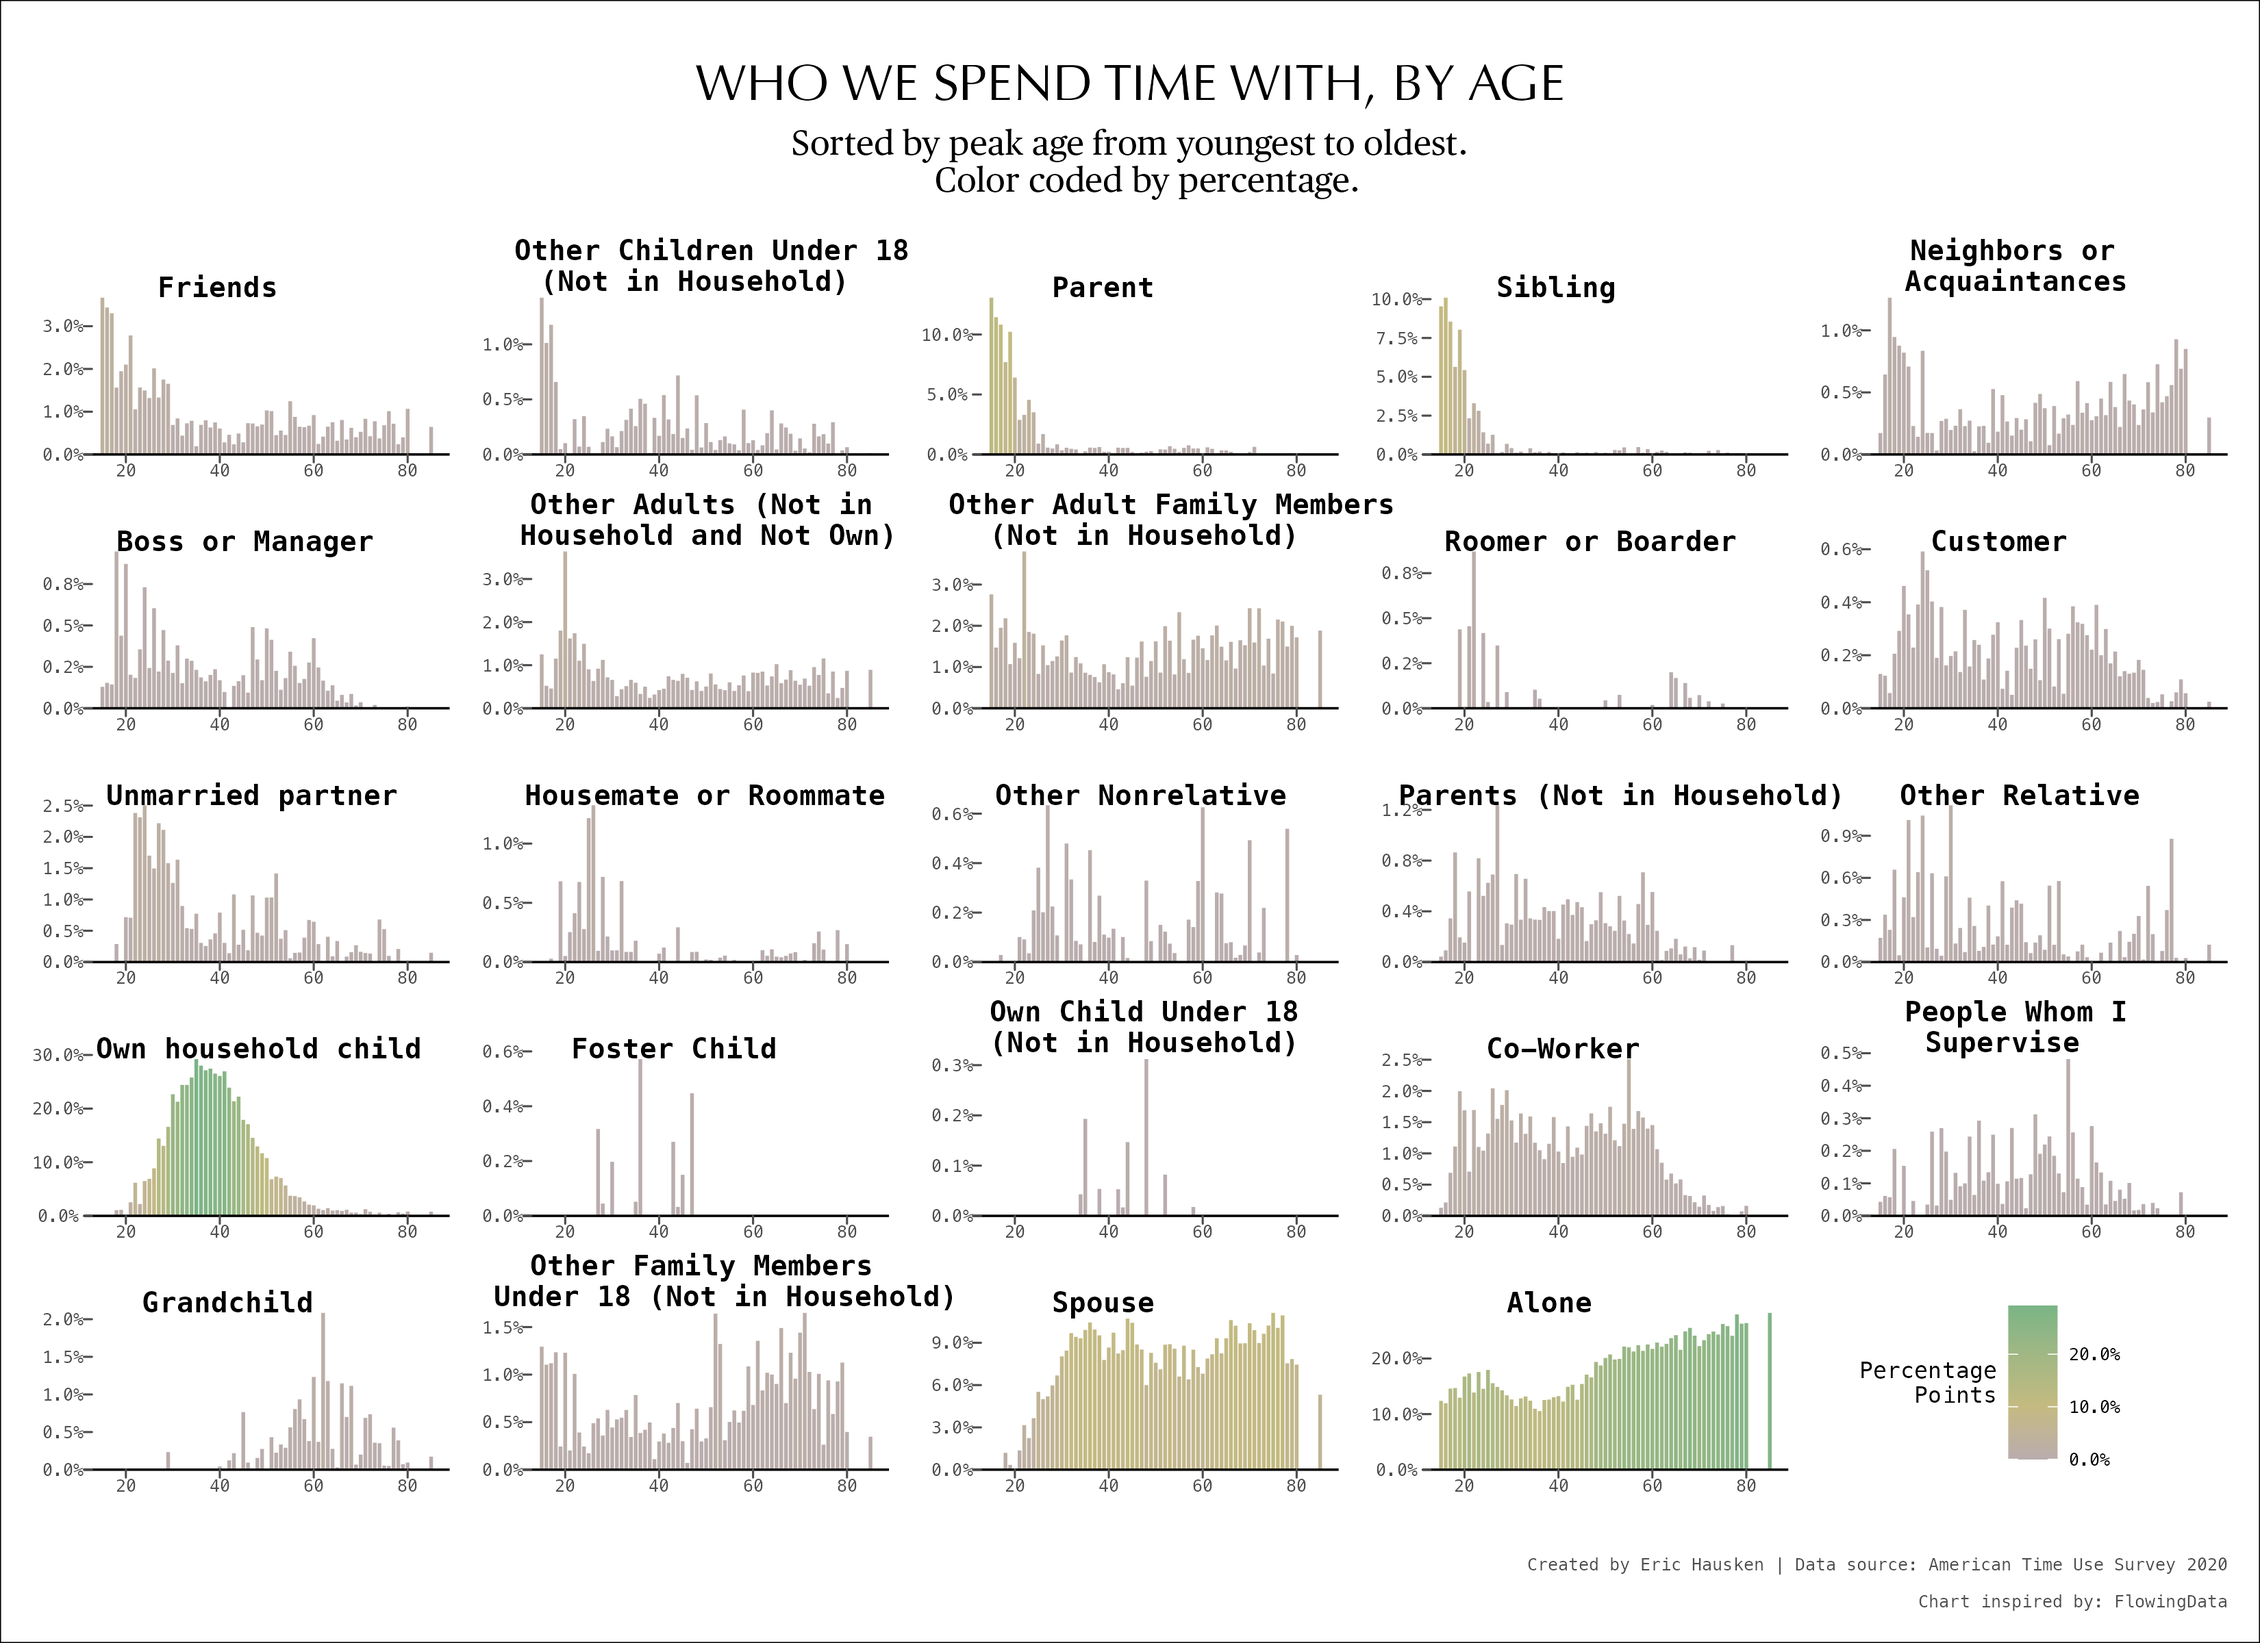
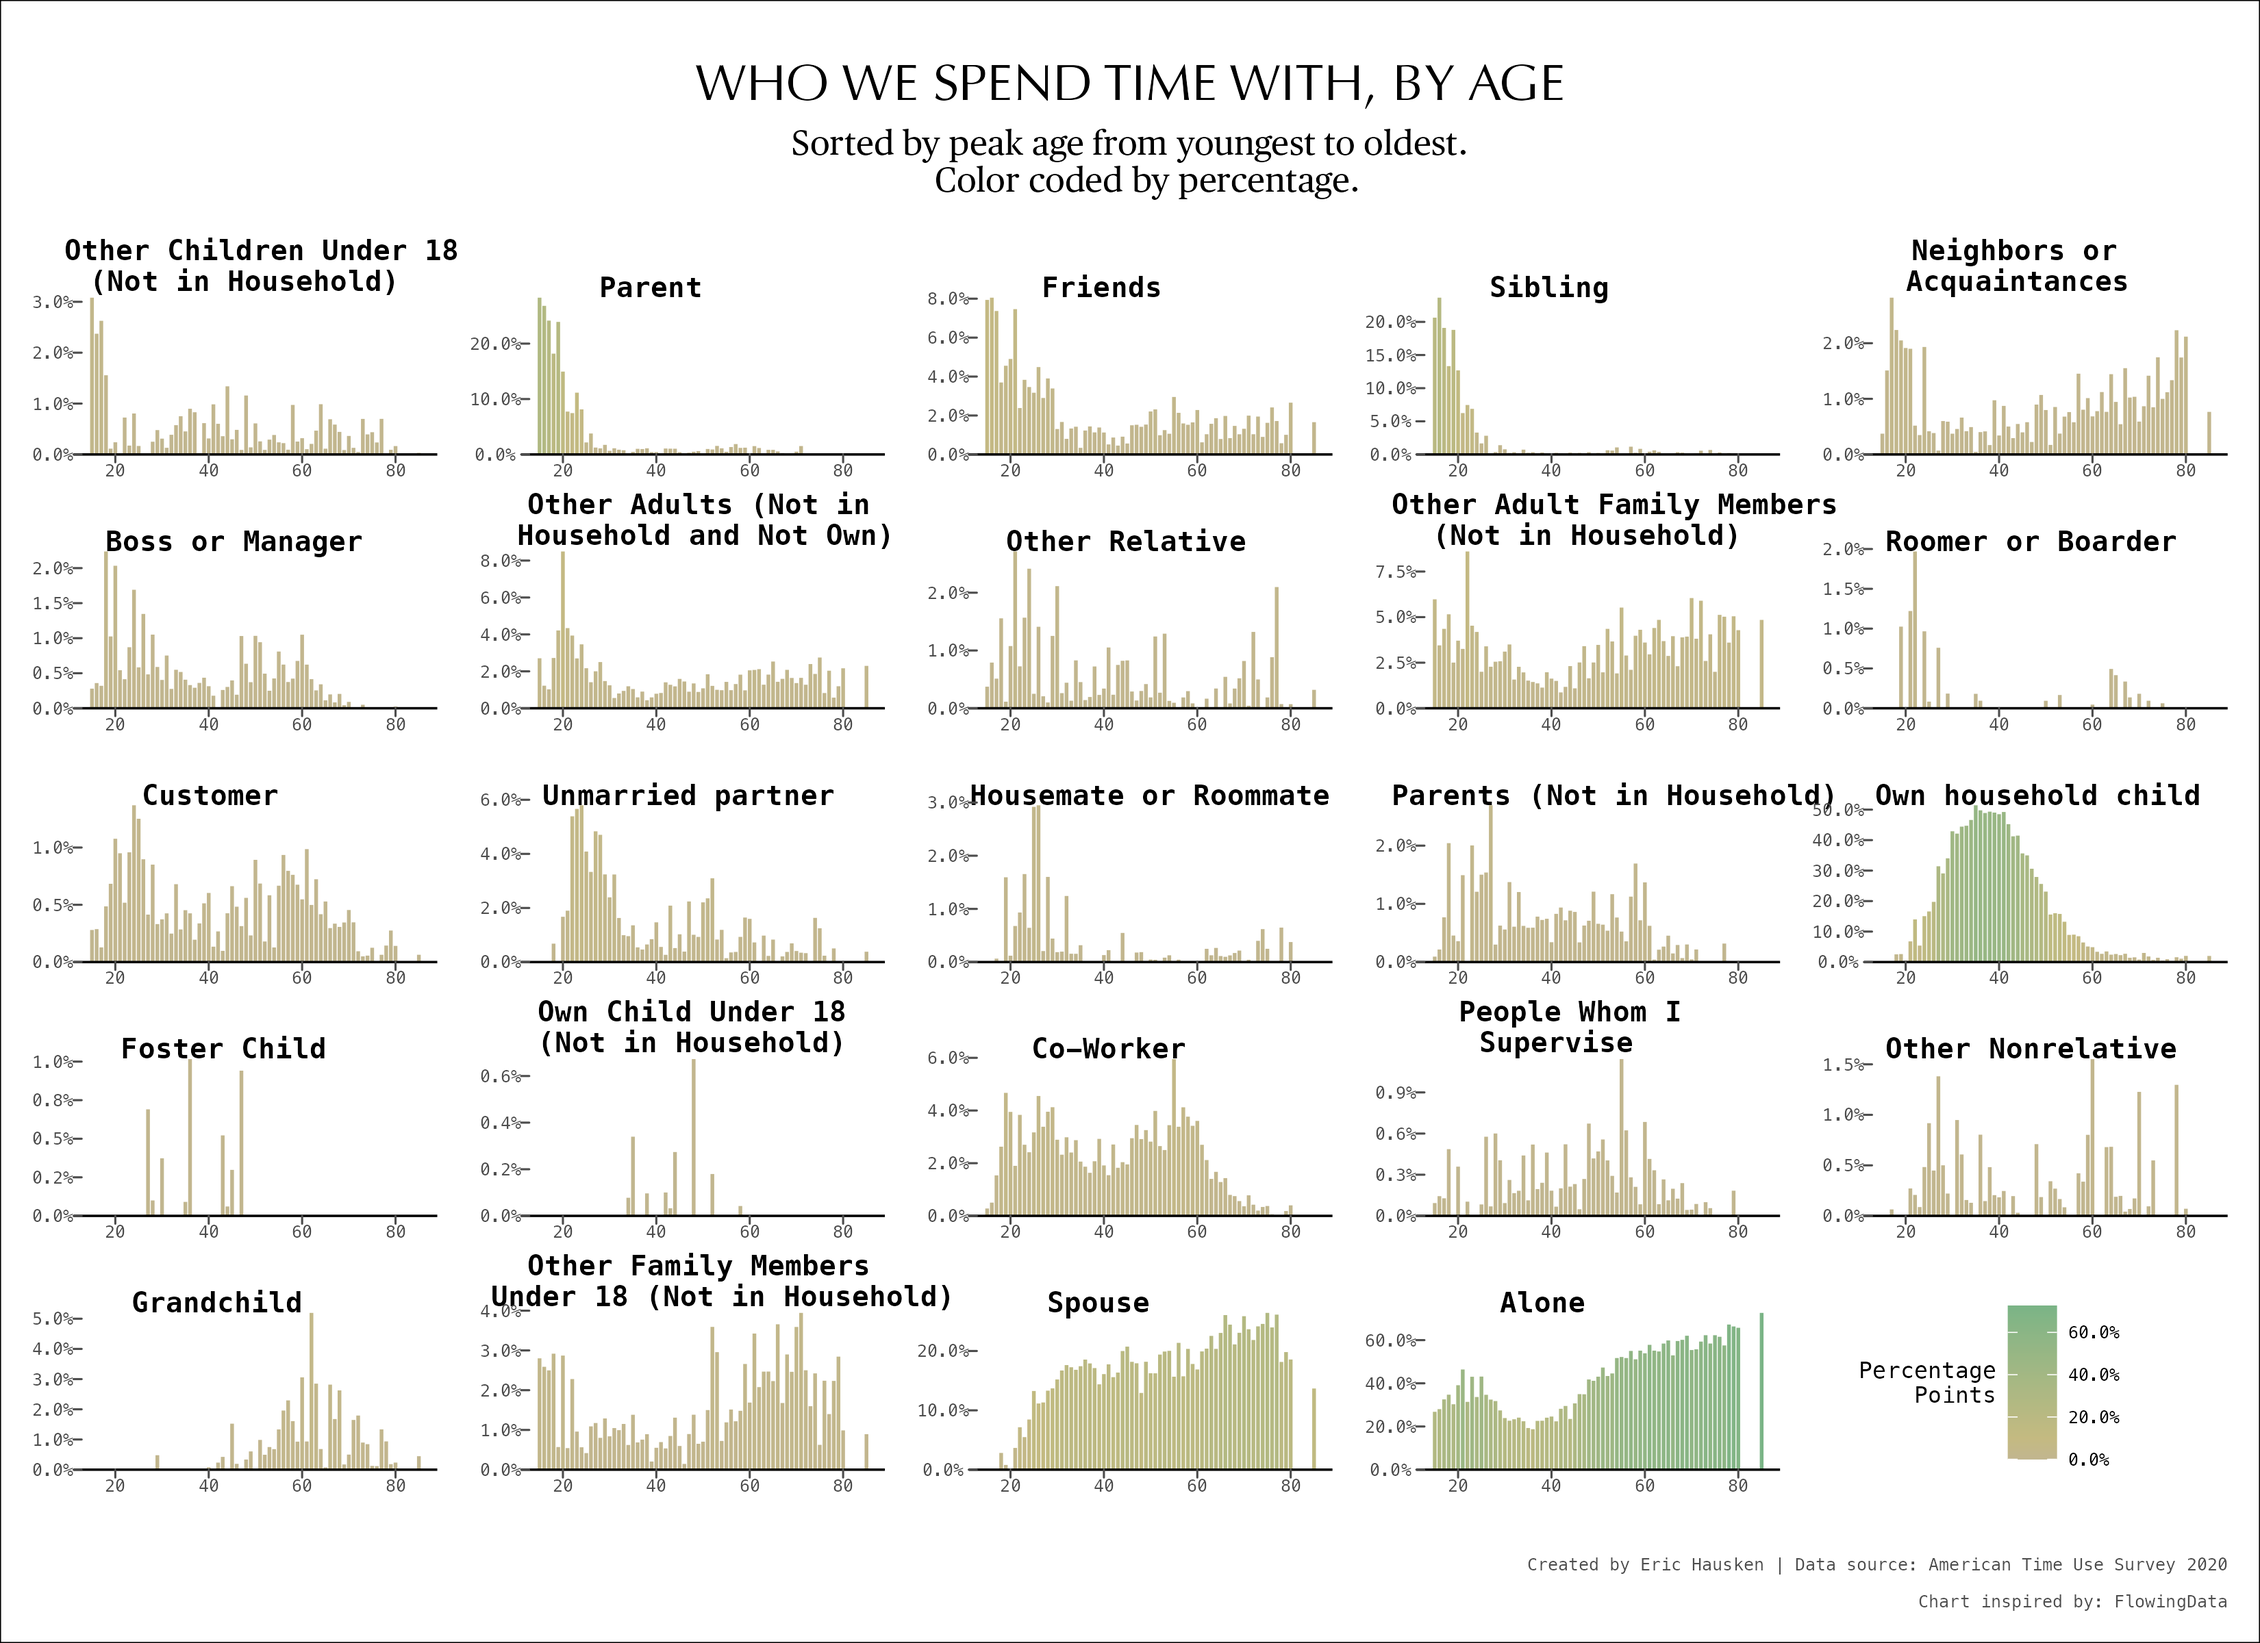
wrote in the first section about the original plot. Updated the data to correct the percentages, which affected the replication and enhanced plots

diff --git a/_projects/2023/100510783/100510783.html b/_projects/2023/100510783/100510783.html
@@ -94,8 +94,8 @@ code span.wa { color: #5e5e5e; font-style: italic; } /* Warning */
 
 
   <!--  https://schema.org/Article -->
-  <meta property="article:published" itemprop="datePublished" content="2023-12-19"/>
-  <meta property="article:created" itemprop="dateCreated" content="2023-12-19"/>
+  <meta property="article:published" itemprop="datePublished" content="2023-12-23"/>
+  <meta property="article:created" itemprop="dateCreated" content="2023-12-23"/>
   <meta name="article:author" content="Eric Hausken-Brates"/>
 
   <!--  https://developers.facebook.com/docs/sharing/webmasters#markup -->
@@ -113,7 +113,7 @@ code span.wa { color: #5e5e5e; font-style: italic; } /* Warning */
   <!--radix_placeholder_rmarkdown_metadata-->
 
   <script type="text/json" id="radix-rmarkdown-metadata">
-  {"type":"list","attributes":{"names":{"type":"character","attributes":{},"value":["title","description","categories","author","date","output"]}},"value":[{"type":"character","attributes":{},"value":["With whom do we spend our time in 2020?"]},{"type":"character","attributes":{},"value":["A short description of the post.\n"]},{"type":"character","attributes":{},"value":["2023"]},{"type":"list","attributes":{},"value":[{"type":"list","attributes":{"names":{"type":"character","attributes":{},"value":["name"]}},"value":[{"type":"character","attributes":{},"value":["Eric Hausken-Brates"]}]}]},{"type":"character","attributes":{},"value":["2023-12-19"]},{"type":"list","attributes":{"names":{"type":"character","attributes":{},"value":["distill::distill_article"]}},"value":[{"type":"list","attributes":{"names":{"type":"character","attributes":{},"value":["self_contained","toc"]}},"value":[{"type":"logical","attributes":{},"value":[false]},{"type":"logical","attributes":{},"value":[true]}]}]}]}
+  {"type":"list","attributes":{"names":{"type":"character","attributes":{},"value":["title","description","categories","author","date","output"]}},"value":[{"type":"character","attributes":{},"value":["With whom do we spend our time in 2020?"]},{"type":"character","attributes":{},"value":["A short description of the post.\n"]},{"type":"character","attributes":{},"value":["2023"]},{"type":"list","attributes":{},"value":[{"type":"list","attributes":{"names":{"type":"character","attributes":{},"value":["name"]}},"value":[{"type":"character","attributes":{},"value":["Eric Hausken-Brates"]}]}]},{"type":"character","attributes":{},"value":["2023-12-23"]},{"type":"list","attributes":{"names":{"type":"character","attributes":{},"value":["distill::distill_article"]}},"value":[{"type":"list","attributes":{"names":{"type":"character","attributes":{},"value":["self_contained","toc"]}},"value":[{"type":"logical","attributes":{},"value":[false]},{"type":"logical","attributes":{},"value":[true]}]}]}]}
   </script>
   <!--/radix_placeholder_rmarkdown_metadata-->
   
@@ -1496,7 +1496,7 @@ code span.wa { color: #5e5e5e; font-style: italic; } /* Warning */
 <!--radix_placeholder_front_matter-->
 
 <script id="distill-front-matter" type="text/json">
-{"title":"With whom do we spend our time in 2020?","description":"A short description of the post.","authors":[{"author":"Eric Hausken-Brates","authorURL":"#","affiliation":"&nbsp;","affiliationURL":"#","orcidID":""}],"publishedDate":"2023-12-19T00:00:00.000+01:00","citationText":"Hausken-Brates, 2023"}
+{"title":"With whom do we spend our time in 2020?","description":"A short description of the post.","authors":[{"author":"Eric Hausken-Brates","authorURL":"#","affiliation":"&nbsp;","affiliationURL":"#","orcidID":""}],"publishedDate":"2023-12-23T00:00:00.000-08:00","citationText":"Hausken-Brates, 2023"}
 </script>
 
 <!--/radix_placeholder_front_matter-->
@@ -1519,7 +1519,7 @@ code span.wa { color: #5e5e5e; font-style: italic; } /* Warning */
   
   Eric Hausken-Brates
   
-<br/>2023-12-19
+<br/>2023-12-23
 </div>
 
 <div class="d-article">
@@ -1532,11 +1532,21 @@ code span.wa { color: #5e5e5e; font-style: italic; } /* Warning */
 <ul>
 <li><a href="#color-theme-of-the-plot" id="toc-color-theme-of-the-plot">Color theme of the plot</a></li>
 </ul></li>
+<li><a href="#annotations" id="toc-annotations">Annotations</a></li>
 <li><a href="#enhanced-version" id="toc-enhanced-version">Enhanced version</a></li>
 </ul>
 </nav>
 </div>
+<div class="layout-chunk" data-layout="l-body">
+<div class="sourceCode">
+<pre class="sourceCode r"><code class="sourceCode r"><span><span class='kw'><a href='https://rdrr.io/r/base/library.html'>library</a></span><span class='op'>(</span><span class='va'><a href='https://tidyverse.tidyverse.org'>tidyverse</a></span><span class='op'>)</span></span></code></pre>
+</div>
+</div>
 <h2 id="original-chart">Original chart</h2>
+<p>I found this chart in an article called <a href="https://flowingdata.com/2022/04/22/changing-who-we-spend-time-with-as-we-get-older/" class="uri">“Who We Spend Time with as We Get Older”</a> by Nathan Yau. This article includes data from the American Time Use Survey from 2011 to 2019. Yau did not include 2020 data because they did not include a couple months due to the COVID-19 pandemic.</p>
+<p>The chart in <strong>Figure 1</strong> stood out because it had a lot of information broken down in static small multiples. The X-axis measures the age, from 15 to 80 years old, of the survey respondents. The Y-axis measures the percentage of respondents for each age group who spent time with the person titled in each bar chart. While the X-axis is fixed, the Y-axis is free so you cannot compare one chart to another.</p>
+<p>The point of overall chart, therefore, is to compare the distributions by age. The facets are sorted by peak age from youngest to oldest, meaning that “Parent” has a peak at minimum age. Meanwhile, the peak for “Neighbors or Acquaintances” is at the maximum age of 80, which is why its bar chart is positioned at the bottom right corner.</p>
+<p>Comparing the different charts, I noticed that the work-related facets, including co-workers, clients, managers, and customers</p>
 <div class="layout-chunk" data-layout="l-body-outset">
 <div class="figure" style="text-align: center"><span style="display:block;" id="fig:unnamed-chunk-1"></span>
 <img src="Screenshot.png" alt="Source: FlowingData" width="100%" class=external />
@@ -1556,16 +1566,16 @@ Figure 1: Source: FlowingData
 <span></span>
 <span><span class='fu'><a href='https://pillar.r-lib.org/reference/glimpse.html'>glimpse</a></span><span class='op'>(</span><span class='va'>data</span><span class='op'>)</span></span></code></pre>
 </div>
-<pre><code>Rows: 2,887
+<pre><code>Rows: 6,432
 Columns: 9
 $ who      &lt;chr&gt; &quot;Alone&quot;, &quot;Alone&quot;, &quot;Alone&quot;, &quot;Alone&quot;, &quot;Alone&quot;, &quot;Alone…
-$ TEAGE    &lt;dbl&gt; 85, 43, 23, 18, 20, 27, 52, 30, 58, 45, 78, 40, 38,…
-$ category &lt;chr&gt; &quot;Alone&quot;, &quot;Alone&quot;, &quot;Alone&quot;, &quot;Alone&quot;, &quot;Alone&quot;, &quot;Alone…
-$ n        &lt;dbl&gt; 2277, 905, 494, 357, 327, 470, 966, 769, 1208, 927,…
-$ N        &lt;dbl&gt; 8072, 5922, 2810, 2430, 1951, 3155, 4873, 6086, 565…
-$ p        &lt;dbl&gt; 0.2820862, 0.1528200, 0.1758007, 0.1469136, 0.16760…
-$ X        &lt;dbl&gt; 0.2820862, 0.2820862, 0.2820862, 0.2820862, 0.28208…
-$ Y        &lt;dbl&gt; 85, 100, 100, 100, 100, 100, 100, 100, 100, 100, 10…
+$ TEAGE    &lt;dbl&gt; 15, 15, 15, 15, 16, 16, 16, 16, 17, 17, 17, 17, 18,…
+$ category &lt;chr&gt; &quot;Alone&quot;, &quot;Family&quot;, &quot;Friend&quot;, &quot;Work&quot;, &quot;Alone&quot;, &quot;Fami…
+$ n        &lt;dbl&gt; 287, 0, 0, 0, 390, 0, 0, 0, 508, 0, 0, 0, 357, 0, 0…
+$ N        &lt;dbl&gt; 1071, 0, 0, 0, 1391, 0, 0, 0, 1561, 0, 0, 0, 1028, …
+$ p        &lt;dbl&gt; 0.2679739, 0.0000000, 0.0000000, 0.0000000, 0.28037…
+$ X        &lt;dbl&gt; 0.7260842, 0.7260842, 0.7260842, 0.7260842, 0.72608…
+$ Y        &lt;dbl&gt; 100, 100, 100, 100, 100, 100, 100, 100, 100, 100, 1…
 $ whofct   &lt;fct&gt; Alone, Alone, Alone, Alone, Alone, Alone, Alone, Al…</code></pre>
 </div>
 <h3 id="color-theme-of-the-plot">Color theme of the plot</h3>
@@ -1583,6 +1593,8 @@ Figure 2: Color Theme
 </p>
 </div>
 </div>
+<h2 id="annotations">Annotations</h2>
+<p>I created a table for the annotations.</p>
 <div class="layout-chunk" data-layout="l-body">
 
 </div>
@@ -1766,8 +1778,8 @@ Figure 3: Replication
 <span>    guide <span class='op'>=</span> <span class='fu'><a href='https://ggplot2.tidyverse.org/reference/guide_colourbar.html'>guide_colorbar</a></span><span class='op'>(</span></span>
 <span>    title.position <span class='op'>=</span> <span class='st'>"left"</span>,</span>
 <span>    title <span class='op'>=</span> <span class='st'>"Percentage\nPoints"</span><span class='op'>)</span>,</span>
-<span>    labels <span class='op'>=</span> <span class='fu'><a href='https://rdrr.io/r/base/c.html'>c</a></span><span class='op'>(</span><span class='st'>"0.0%"</span>, <span class='st'>"10.0%"</span>, <span class='st'>"20.0%"</span><span class='op'>)</span>,</span>
-<span>    breaks <span class='op'>=</span> <span class='fu'><a href='https://rdrr.io/r/base/c.html'>c</a></span><span class='op'>(</span><span class='fl'>0</span>, <span class='fl'>.1</span>, <span class='fl'>.2</span><span class='op'>)</span></span>
+<span>    labels <span class='op'>=</span> <span class='fu'><a href='https://rdrr.io/r/base/c.html'>c</a></span><span class='op'>(</span><span class='st'>"0.0%"</span>, <span class='st'>"20.0%"</span>, <span class='st'>"40.0%"</span>, <span class='st'>"60.0%"</span><span class='op'>)</span>,</span>
+<span>    breaks <span class='op'>=</span> <span class='fu'><a href='https://rdrr.io/r/base/c.html'>c</a></span><span class='op'>(</span><span class='fl'>0</span>, <span class='fl'>.2</span>, <span class='fl'>.4</span>, <span class='fl'>.6</span><span class='op'>)</span></span>
 <span>  <span class='op'>)</span> </span>
 <span>  </span>
 <span><span class='fu'><a href='https://ggplot2.tidyverse.org/reference/ggsave.html'>ggsave</a></span><span class='op'>(</span>filename <span class='op'>=</span> <span class='st'>"Enhanced_version_plot.png"</span>, </span>
